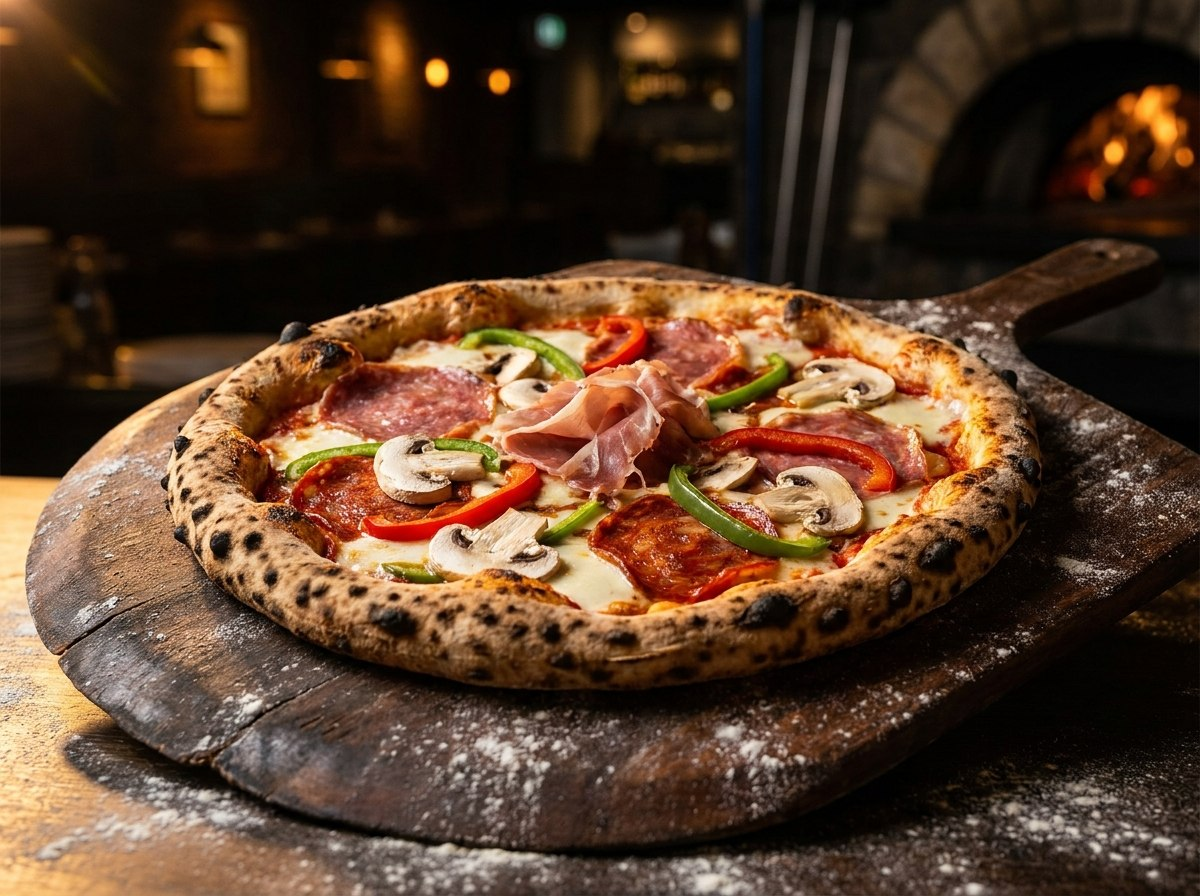
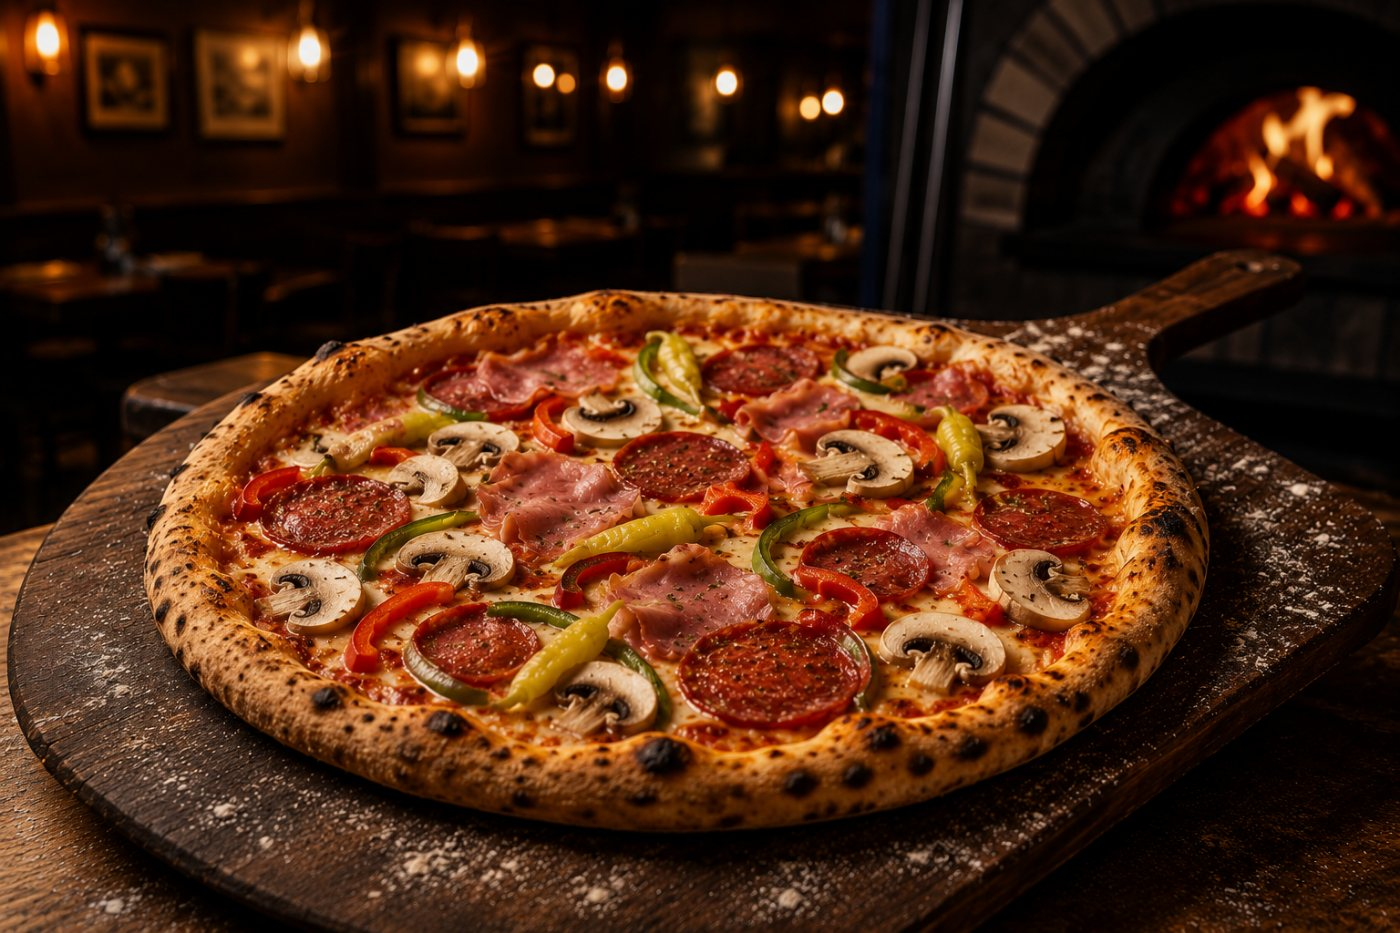
Neues Bild fuer "Unsere Kreation"
pizzeria-17 gegen das neue Pizzafoto getauscht (Holzofen-Ambiente, auf dem
Schieber). Das Bild wird nur an dieser Stelle verwendet, deshalb direkt
ersetzt statt eine zweite Datei anzulegen.

Beide Formate erzeugt: das WebP wird ausgeliefert, das JPEG ist Fallback —
nur das JPEG zu tauschen haette live nichts geaendert. Vorlage war ein PNG
mit 1536x1024 und 2,4 MB, daraus 1400x933 als WebP (177 KB) und JPEG
(243 KB).

og:image zeigt auf dasselbe Bild, deshalb og:image:width/height auf
1400x933 korrigiert. Der bestehende Alt-Text passt unveraendert, das Foto
zeigt genau den beschriebenen Belag.

Claude-Session: https://claude.ai/code/session_01Xd2yZmupHsv5rxGfMJ4qkR

diff --git a/index.html b/index.html
@@ -12,8 +12,8 @@
 <meta property="og:title" content="Pizzeria Sibbesse — Holzofenpizza &amp; Döner in Sibbesse">
 <meta property="og:description" content="Knusprige Holzofen-Pizza, saftiger Döner, frische Pide &amp; mehr — frisch zubereitet in Sibbesse. Lieferung &amp; Abholung, täglich 12–22 Uhr.">
 <meta property="og:image" content="https://pizzeria-sibbesse.vercel.app/assets/images/pizzeria-17.jpeg">
-<meta property="og:image:width" content="1200">
-<meta property="og:image:height" content="896">
+<meta property="og:image:width" content="1400">
+<meta property="og:image:height" content="933">
 <meta property="og:url" content="https://pizzeria-sibbesse.vercel.app/">
 <meta property="og:locale" content="de_DE">
 
